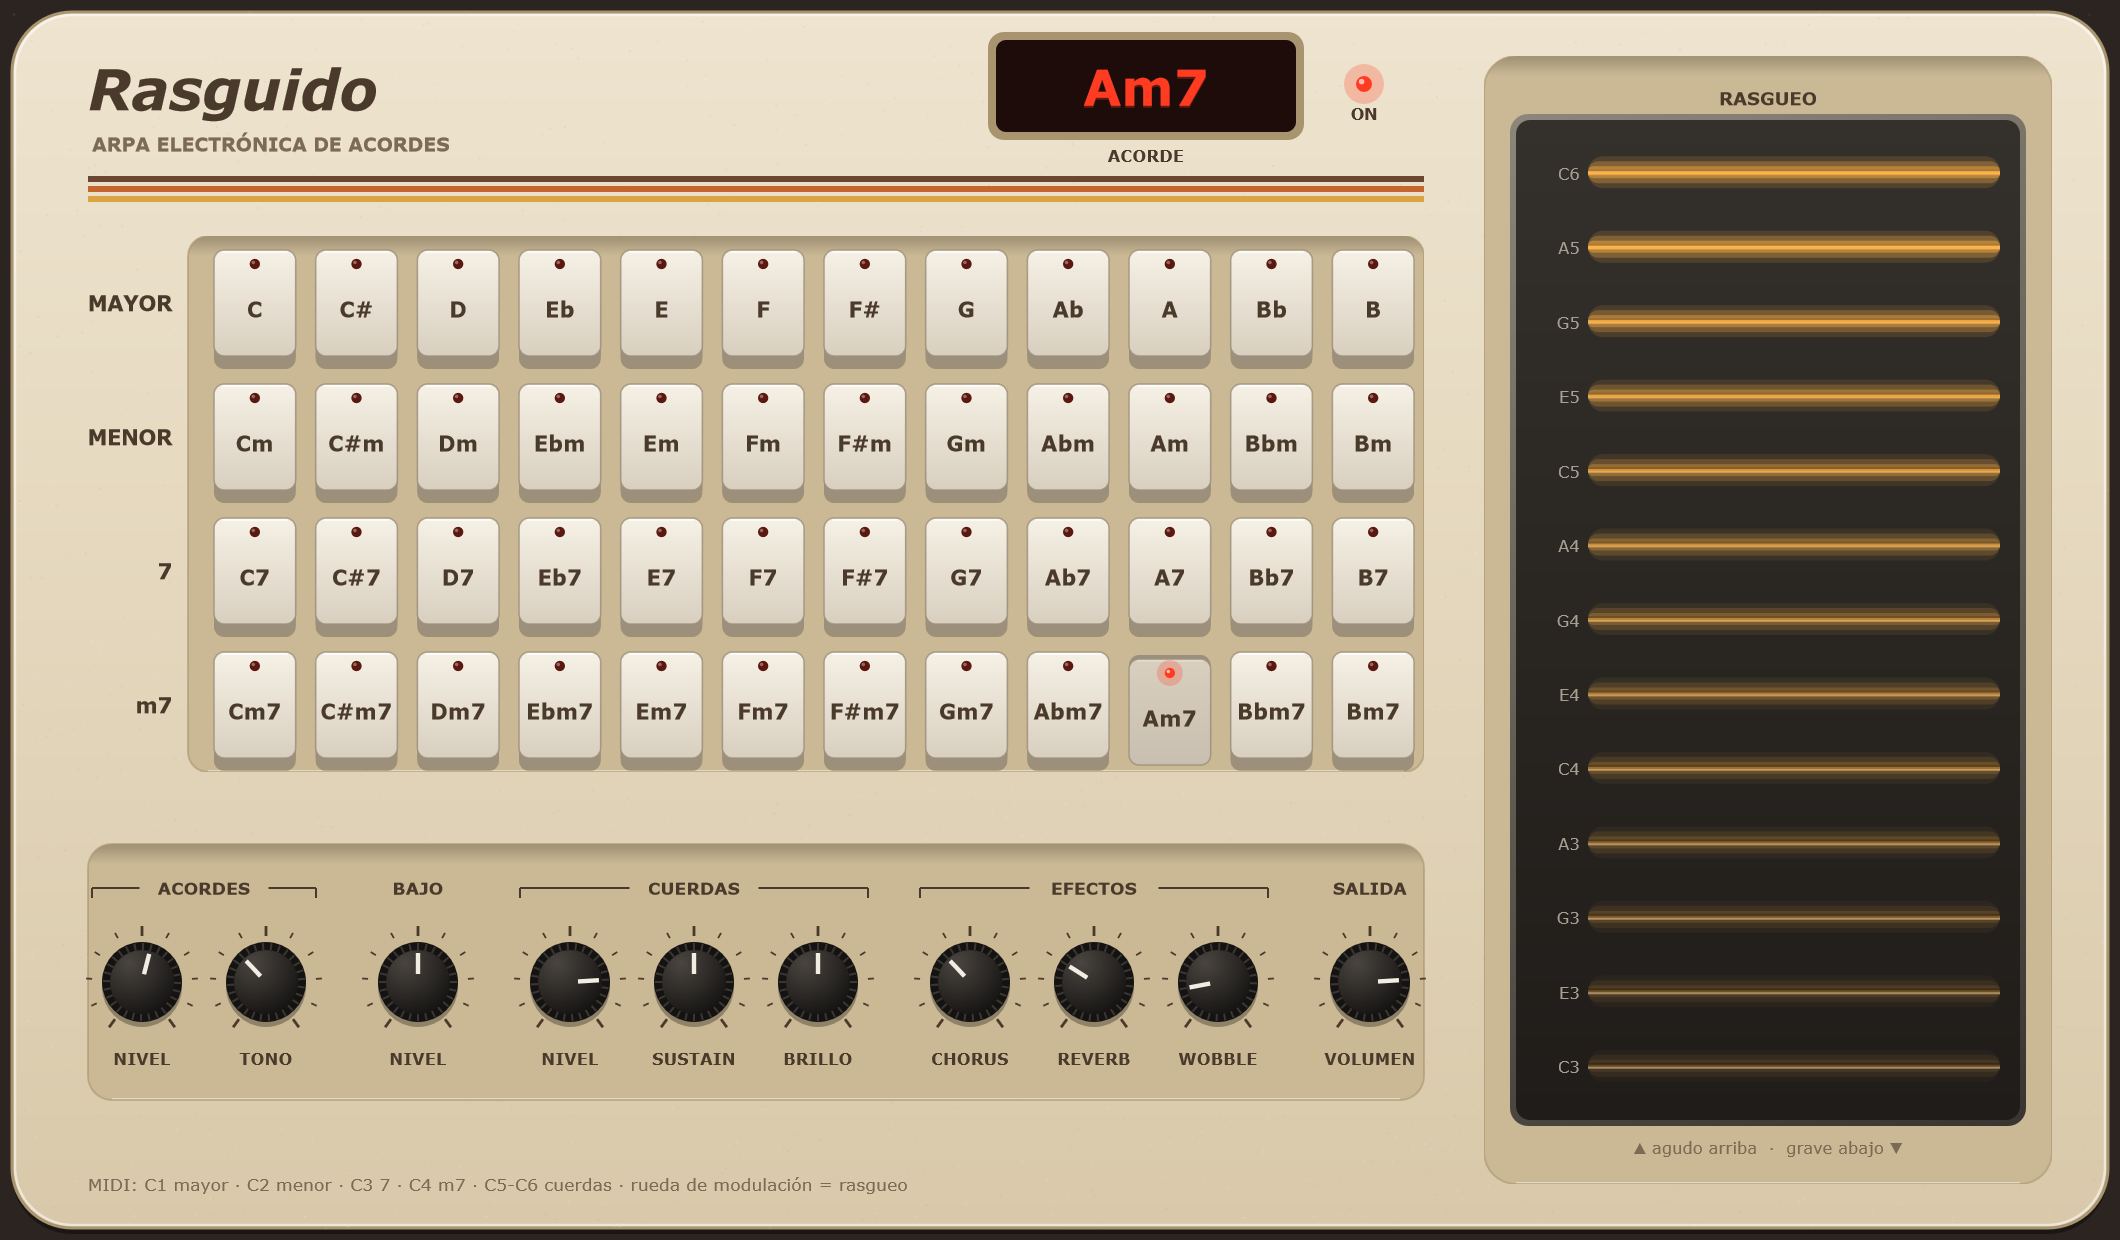
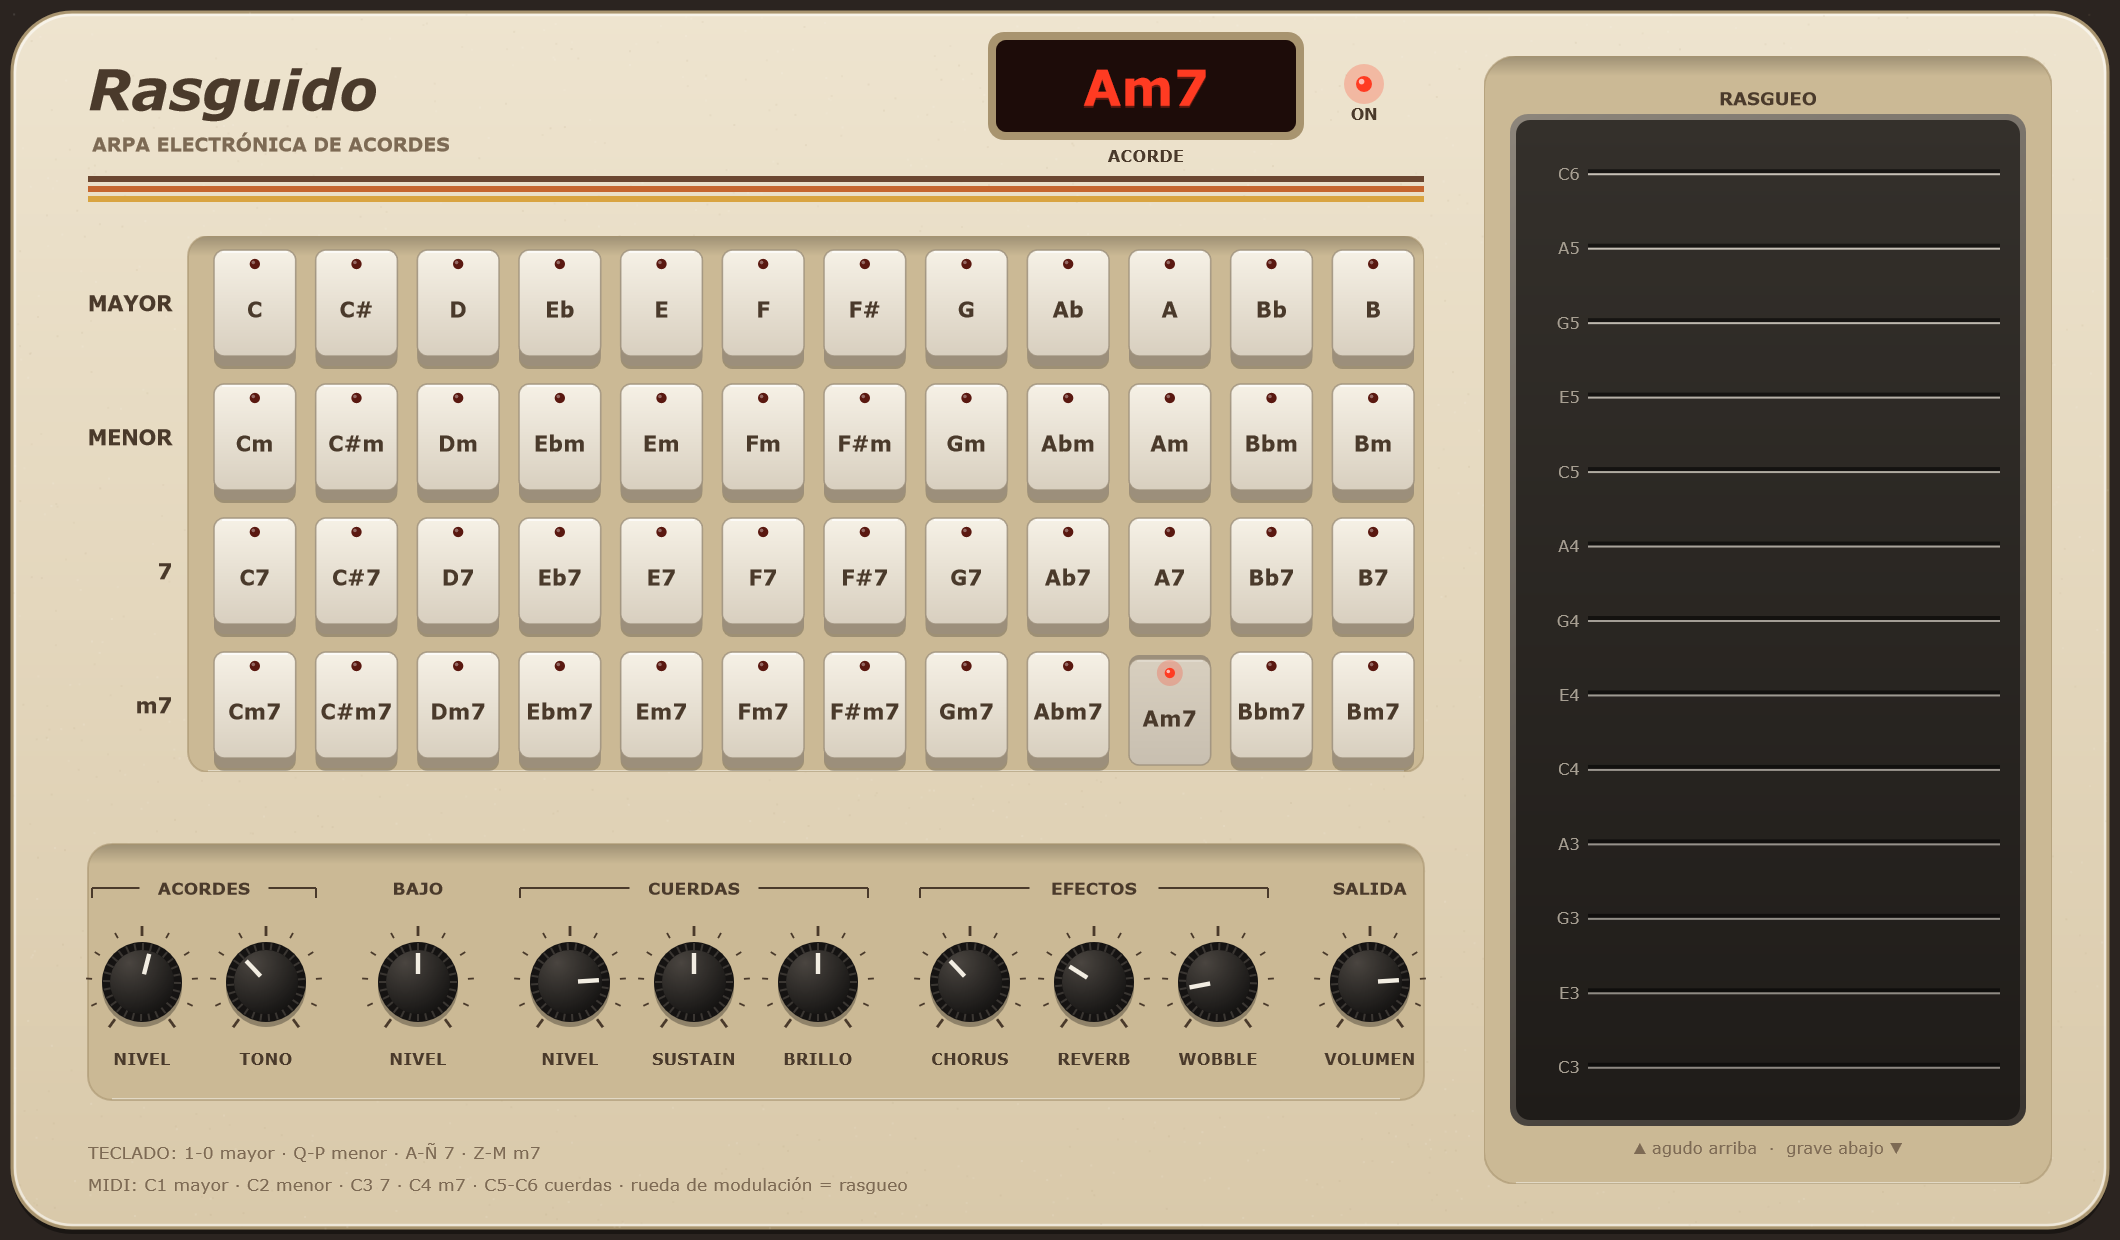
Play chords from the computer keyboard; drop the string glow
Each keyboard row is a chord type from C: 1-0 major, Q-P minor, A-Ñ 7, Z-M m7
(Latin American layout). Keys are polled so chords stop when released, and
held keys are let go when focus is lost. Ringing strings now only brighten
their ridge instead of glowing.

diff --git a/plugin/PluginEditor.cpp b/plugin/PluginEditor.cpp
@@ -14,7 +14,7 @@ const juce::Colour keyTop { 0xfff6f1e6 }, keyBottom { 0xffd8cfbf }, keySide { 0x
 const juce::Colour recess { 0xffcbb995 }; // panels set into the body
 const juce::Colour ledOn { 0xffff3b22 }, ledOff { 0xff5a1810 }, ledWindow { 0xff1d0c09 };
 const juce::Colour plateTop { 0xff34302b }, plateBottom { 0xff1f1c19 }, ridge { 0xff4a443d };
-const juce::Colour glow { 0xffffb347 }; // a ringing string
+const juce::Colour ringing { 0xffd9d3c7 }; // the ridge of a string that is sounding
 } // namespace Colours
 
 const char* const rootNames[] = { "C", "C#", "D", "Eb", "E", "F", "F#", "G", "Ab", "A", "Bb", "B" };
@@ -319,20 +319,9 @@ void StrumPlate::paint(juce::Graphics& g)
         // Each string is a ridge pressed into the metal: dark groove above, highlight below.
         g.setColour(juce::Colours::black.withAlpha(0.55f));
         g.fillRect(area.getX(), y - 2.0f, area.getWidth(), 2.0f);
-        g.setColour(Colours::ridge.brighter(0.4f));
+        // A ringing string only catches a little more light on its ridge.
+        g.setColour(Colours::ridge.brighter(0.4f).interpolatedWith(Colours::ringing, level * 0.8f));
         g.fillRect(area.getX(), y, area.getWidth(), 1.0f);
-
-        if (level > 0.01f)
-        {
-            // A ringing string glows warm, like light under the plate.
-            for (int i = 3; i > 0; --i)
-            {
-                g.setColour(Colours::glow.withAlpha(level * 0.14f * (float) (4 - i)));
-                g.fillRoundedRectangle(area.getX(), y - 1.0f - (float) i * 2.5f, area.getWidth(), (float) i * 5.0f + 1.0f, (float) i * 2.5f);
-            }
-            g.setColour(Colours::glow.withAlpha(level));
-            g.fillRect(area.getX(), y - 1.0f, area.getWidth(), 1.6f);
-        }
     }
 }
 
@@ -367,14 +356,92 @@ RasguidoEditor::RasguidoEditor(RasguidoProcessor& p) : AudioProcessorEditor(&p),
 
     addAndMakeVisible(grid);
     addAndMakeVisible(plate);
+    setWantsKeyboardFocus(true);
     setSize(1060, 620);
     startTimerHz(40);
 }
 
-RasguidoEditor::~RasguidoEditor() { setLookAndFeel(nullptr); }
+RasguidoEditor::~RasguidoEditor()
+{
+    releaseKeys();
+    setLookAndFeel(nullptr);
+}
+
+// ---- computer keyboard -------------------------------------------------------------------------
+
+namespace
+{
+// One row per chord type, twelve keys from C to B, laid out for a Latin American keyboard (letters and
+// digits work on any layout). The bottom row only has ten keys, so it stops at A minor 7.
+const char* const keyRows[rasguido::kChordTypes] = {
+    "1234567890'\xc2\xbf", // major: ... 0 ' ¿
+    "qwertyuiop\xc2\xb4+", // minor: ... p ´ +
+    "asdfghjkl\xc3\xb1{}", // seventh: ... l ñ { }
+    "zxcvbnm,.-", // minor seventh
+};
+
+/** The characters of a row, decoded from UTF-8. */
+juce::Array<juce::juce_wchar> rowKeys(int type)
+{
+    juce::Array<juce::juce_wchar> keys;
+    for (auto t = juce::String::fromUTF8(keyRows[type]).getCharPointer(); !t.isEmpty();)
+        keys.add(t.getAndAdvance());
+    return keys;
+}
+
+/** The chord code a typed character plays, or -1. */
+int codeForKey(juce::juce_wchar c)
+{
+    c = juce::CharacterFunctions::toLowerCase(c);
+    for (int type = 0; type < rasguido::kChordTypes; ++type)
+        if (const int root = rowKeys(type).indexOf(c); root >= 0)
+            return root + 12 * type;
+    return -1;
+}
+} // namespace
+
+bool RasguidoEditor::keyPressed(const juce::KeyPress& key)
+{
+    // Swallow mapped keys (including auto-repeat) so the host doesn't act on them too.
+    return codeForKey(key.getTextCharacter()) >= 0;
+}
+
+bool RasguidoEditor::keyStateChanged(bool)
+{
+    bool handled = false;
+    for (int type = 0; type < rasguido::kChordTypes; ++type)
+    {
+        const auto keys = rowKeys(type);
+        for (int root = 0; root < keys.size(); ++root)
+        {
+            const int code = root + 12 * type;
+            const bool down = juce::KeyPress::isKeyCurrentlyDown((int) keys[root]);
+            if (down == keysDown[(size_t) code])
+                continue;
+            keysDown[(size_t) code] = down;
+            processor.playFromUi(down ? noteOn(rasguido::kFirstChordNote + code, 1.0f) : noteOff(rasguido::kFirstChordNote + code));
+            handled = true;
+        }
+    }
+    return handled;
+}
+
+void RasguidoEditor::releaseKeys()
+{
+    for (size_t code = 0; code < keysDown.size(); ++code)
+        if (std::exchange(keysDown[code], false))
+            processor.playFromUi(noteOff(rasguido::kFirstChordNote + (int) code));
+}
 
 void RasguidoEditor::refreshFromEngine()
 {
+    // Take keyboard focus once the window is up, so typing plays chords straight away.
+    if (!focusGrabbed && isShowing())
+    {
+        grabKeyboardFocus();
+        focusGrabbed = true;
+    }
+
     const auto& engine = processor.engine();
     const int held = engine.heldChordCode(), memory = engine.stringChordCode();
     grid.show(held, memory);
@@ -479,6 +546,8 @@ void RasguidoEditor::paint(juce::Graphics& g)
     // How to play it from a DAW, printed small along the bottom edge.
     g.setColour(Colours::printSoft);
     g.setFont(font(10.5f));
+    g.drawText(juce::String::fromUTF8("TECLADO: 1-0 mayor \xc2\xb7 Q-P menor \xc2\xb7 A-\xc3\x91 7 \xc2\xb7 Z-M m7"),
+               juce::Rectangle<float>(left, (float) getHeight() - 52, 640, 16), juce::Justification::centredLeft);
     g.drawText(juce::String::fromUTF8("MIDI: C1 mayor \xc2\xb7 C2 menor \xc2\xb7 C3 7 \xc2\xb7 C4 m7 \xc2\xb7 C5-C6 cuerdas \xc2\xb7 rueda de modulaci\xc3\xb3n = rasgueo"),
                juce::Rectangle<float>(left, (float) getHeight() - 36, 640, 16), juce::Justification::centredLeft);
 }

diff --git a/plugin/PluginEditor.h b/plugin/PluginEditor.h
@@ -82,8 +82,17 @@ public:
     /** Pulls the engine's state into the UI (the timer calls it 40 times a second). */
     void refreshFromEngine();
 
+    // Computer keyboard: each row of keys is one chord type, left to right from C.
+    bool keyPressed(const juce::KeyPress&) override;
+    bool keyStateChanged(bool isKeyDown) override;
+    void focusLost(FocusChangeType) override { releaseKeys(); }
+
 private:
     void timerCallback() override { refreshFromEngine(); }
+    void releaseKeys();
+
+    std::array<bool, 12 * rasguido::kChordTypes> keysDown {};
+    bool focusGrabbed = false;
 
     struct Knob
     {

diff --git a/README.es.md b/README.es.md
@@ -67,5 +67,5 @@ cmake -S dsp -B dsp/build && cmake --build dsp/build --config Release && dsp/bui
 ## Próximos pasos
 
 - [ ] Sección rítmica: patrones de batería con un bajo automático que sigue al acorde.
-- [ ] Tocar con el teclado de la computadora en la versión standalone.
+- [x] Tocar con el teclado de la compu: 1-0 mayor, Q-P menor, A-Ñ 7, Z-M m7 (teclado latinoamericano).
 - [ ] La versión web: el mismo `dsp/` compilado a WebAssembly, para tocar desde el celular.

diff --git a/README.md b/README.md
@@ -67,5 +67,5 @@ cmake -S dsp -B dsp/build && cmake --build dsp/build --config Release && dsp/bui
 ## Roadmap
 
 - [ ] A rhythm section: drum patterns with an auto-bass that follows the chord.
-- [ ] Computer-keyboard play in the standalone app.
+- [x] Computer-keyboard play: 1-0 major, Q-P minor, A-Ñ 7, Z-M m7 (Latin American layout).
 - [ ] The web version: the same `dsp/` compiled to WebAssembly, playable on a phone.
